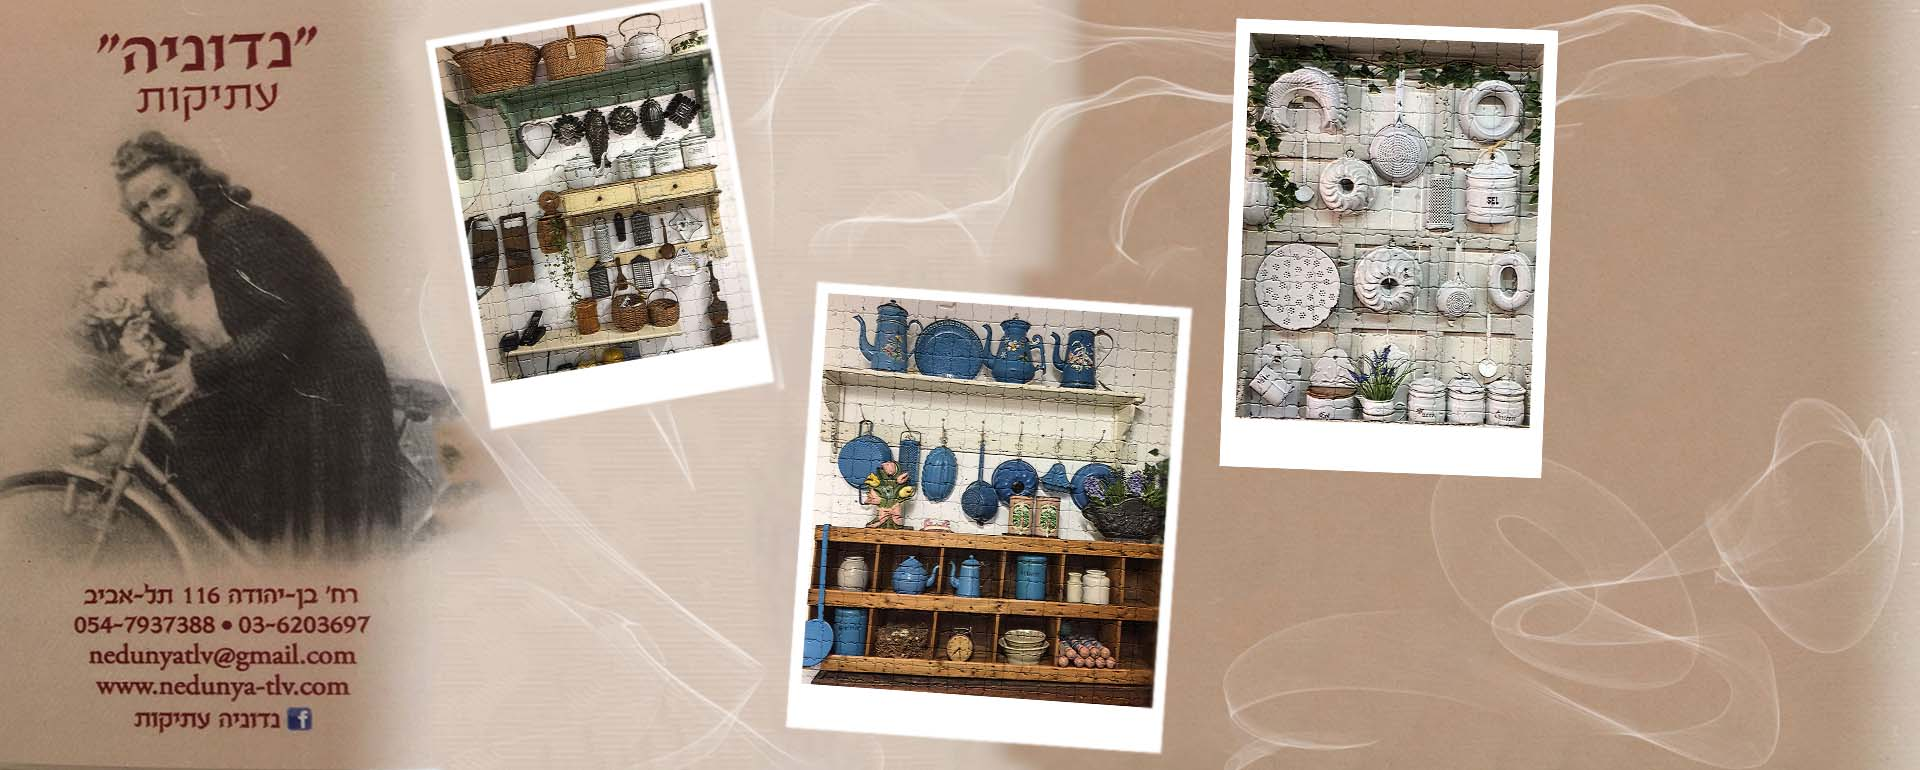
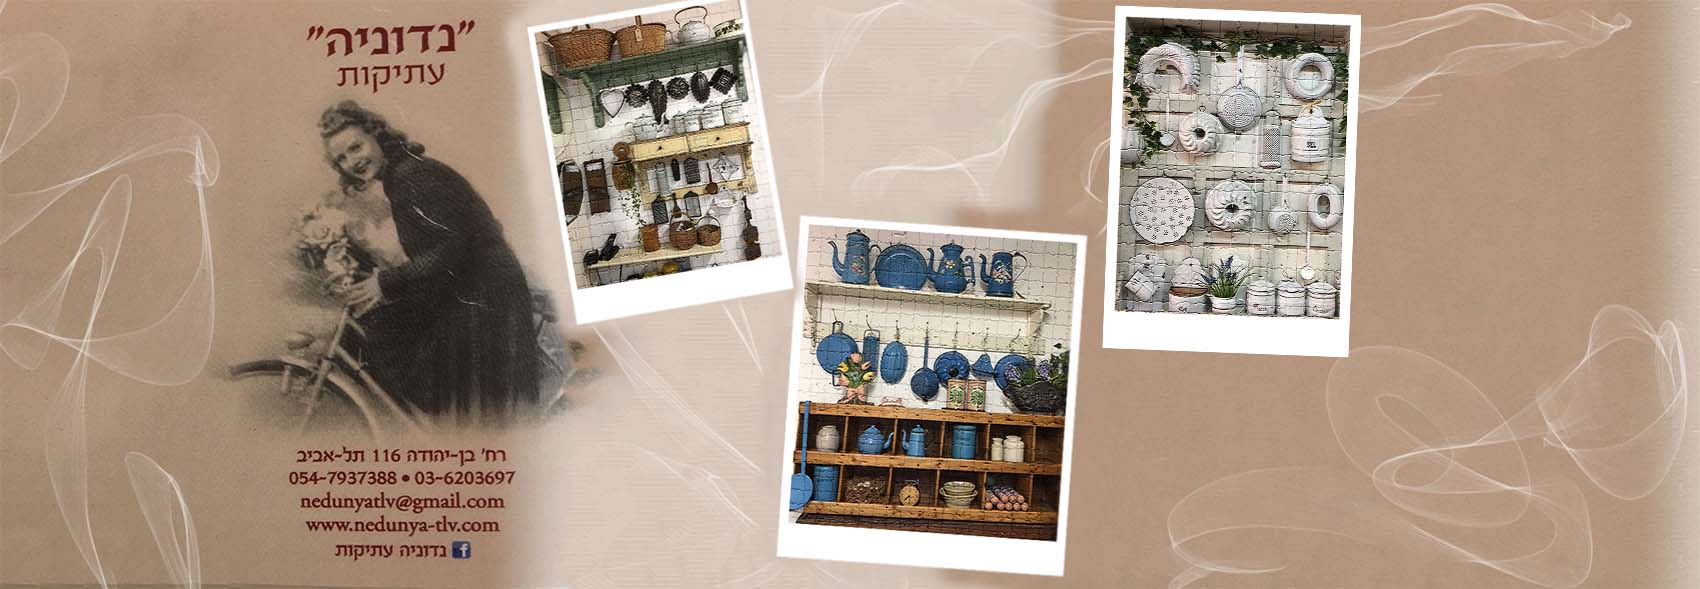
added styles

diff --git a/NedunyaAntiquesWebApp/NedunyaAntiquesWebApp/Content/OurStyle.css b/NedunyaAntiquesWebApp/NedunyaAntiquesWebApp/Content/OurStyle.css
@@ -1,6 +1,6 @@
 .img-responsive {
-    max-width: 50px;
-    max-height: 100px;
+    max-width: 100%;
+    max-height: 100%;
 }
 
 .brand {
@@ -18,8 +18,7 @@
 }
 
 .img-bg-1 {
-    background-image: url(../../img/bg-img/bg-1.jpg);
-    object-fit: contain;
+    object-fit: cover;
     padding: 0;
     display: block;
     margin: 0 auto;

diff --git a/NedunyaAntiquesWebApp/NedunyaAntiquesWebApp/scss/style.scss b/NedunyaAntiquesWebApp/NedunyaAntiquesWebApp/scss/style.scss
@@ -725,7 +725,7 @@ img {
     position: relative;
     z-index: 1;
     width: 100%;
-    height: 600px;
+    height: 800px;
     @media #{$breakpoint-md} {
         height: 450px;
     }
